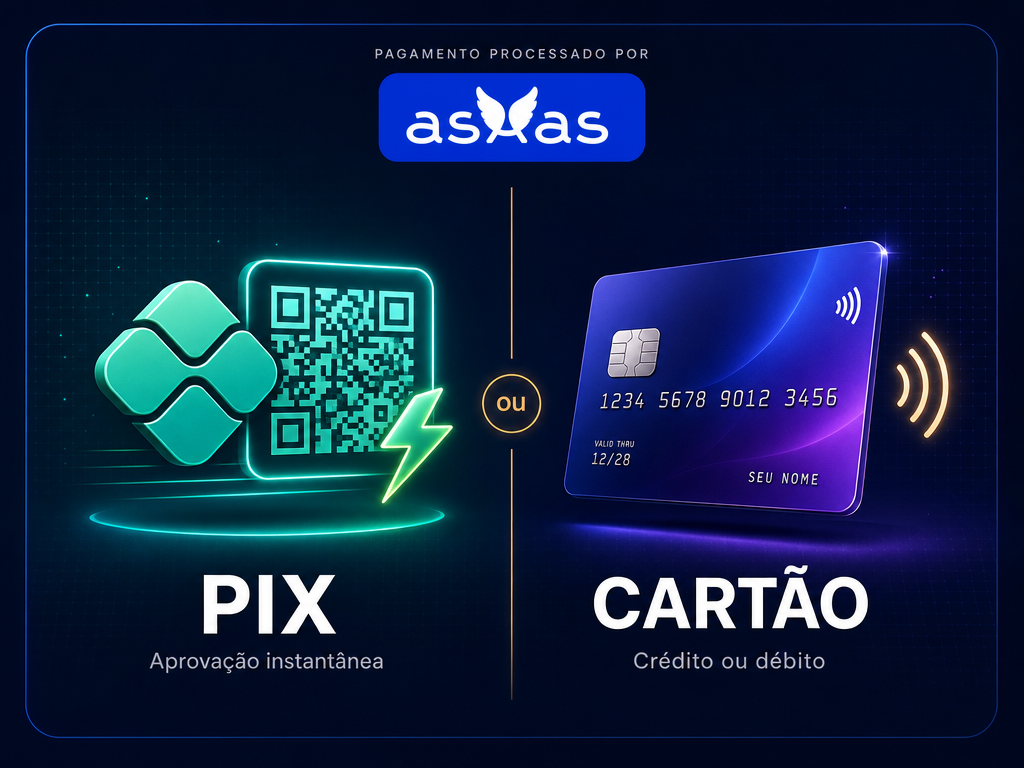
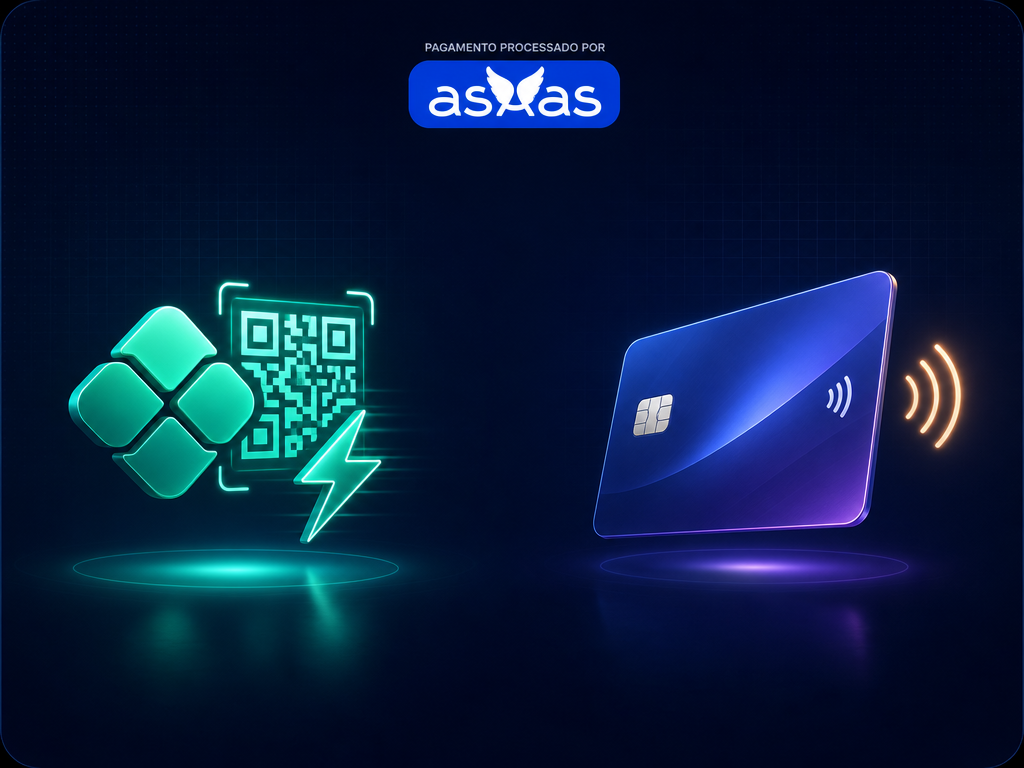
Refina UX/UI do checkout Asaas: nova arte sem texto queimado, divisor dinâmico, selos de segurança antecipados e corrige spinner enganoso do stepper

diff --git a/src/components/billing/asaas-checkout.tsx b/src/components/billing/asaas-checkout.tsx
@@ -323,6 +323,26 @@ export function AsaasCheckout({ onApproved, onStageChange }: AsaasCheckoutProps)
             </p>
           </div>
 
+          <ul
+            className="grid grid-cols-2 gap-2"
+            aria-label="Selos de segurança do pagamento"
+          >
+            <li className="flex items-center gap-2 rounded-xl border border-white/15 bg-white/5 px-3 py-2.5">
+              <Lock className="h-4 w-4 shrink-0 text-sky-300" aria-hidden />
+              <span className="min-w-0">
+                <span className="block text-[11px] font-bold text-white">SSL / HTTPS</span>
+                <span className="block text-[10px] text-slate-300">Conexão criptografada</span>
+              </span>
+            </li>
+            <li className="flex items-center gap-2 rounded-xl border border-white/15 bg-white/5 px-3 py-2.5">
+              <ShieldCheck className="h-4 w-4 shrink-0 text-emerald-300" aria-hidden />
+              <span className="min-w-0">
+                <span className="block text-[11px] font-bold text-white">PCI DSS</span>
+                <span className="block text-[10px] text-slate-300">Cartão na Asaas</span>
+              </span>
+            </li>
+          </ul>
+
           <div role="group" aria-labelledby={methodsLegendId}>
             <p
               id={methodsLegendId}
@@ -345,6 +365,38 @@ export function AsaasCheckout({ onApproved, onStageChange }: AsaasCheckoutProps)
                 sizes="(max-width: 1024px) 100vw, 520px"
                 priority
               />
+
+              <div
+                className="pointer-events-none absolute left-1/2 top-[46%] z-10 flex h-9 w-9 -translate-x-1/2 -translate-y-1/2 items-center justify-center rounded-full border transition-colors sm:h-10 sm:w-10"
+                aria-hidden
+                style={{
+                  borderColor:
+                    selectedMethod === 'pix'
+                      ? 'rgba(45,212,191,0.7)'
+                      : selectedMethod === 'card'
+                        ? 'rgba(167,139,250,0.7)'
+                        : 'rgba(252,211,77,0.5)',
+                  backgroundColor:
+                    selectedMethod === 'pix'
+                      ? 'rgba(20,184,166,0.25)'
+                      : selectedMethod === 'card'
+                        ? 'rgba(139,92,246,0.25)'
+                        : 'rgba(2,6,23,0.75)'
+                }}
+              >
+                {selectedMethod ? (
+                  <Check
+                    className={cn(
+                      'h-4 w-4',
+                      selectedMethod === 'pix' ? 'text-teal-200' : 'text-violet-200'
+                    )}
+                  />
+                ) : (
+                  <span className="text-[10px] font-bold uppercase tracking-wide text-amber-200">
+                    ou
+                  </span>
+                )}
+              </div>
 
               <div className="absolute inset-0 grid grid-cols-2">
                 <button
@@ -369,11 +421,11 @@ export function AsaasCheckout({ onApproved, onStageChange }: AsaasCheckoutProps)
                       </span>
                     ) : (
                       <>
-                        <span className="block text-xs font-black uppercase tracking-wide text-teal-200 sm:text-sm">
-                          {selectedMethod === 'pix' ? 'Pix selecionado' : 'Pagar com Pix'}
+                        <span className="block text-base font-black uppercase tracking-wide text-teal-200 sm:text-lg">
+                          PIX
                         </span>
-                        <span className="mt-0.5 block text-[10px] text-slate-200 sm:text-[11px]">
-                          Toque nesta metade
+                        <span className="mt-0.5 block text-[10px] font-semibold text-slate-100 sm:text-[11px]">
+                          {selectedMethod === 'pix' ? 'Selecionado ✓' : 'Aprovação instantânea'}
                         </span>
                       </>
                     )}
@@ -402,11 +454,11 @@ export function AsaasCheckout({ onApproved, onStageChange }: AsaasCheckoutProps)
                       </span>
                     ) : (
                       <>
-                        <span className="block text-xs font-black uppercase tracking-wide text-violet-200 sm:text-sm">
-                          {selectedMethod === 'card' ? 'Cartão selecionado' : 'Pagar com cartão'}
+                        <span className="block text-base font-black uppercase tracking-wide text-violet-200 sm:text-lg">
+                          CARTÃO
                         </span>
-                        <span className="mt-0.5 block text-[10px] text-slate-200 sm:text-[11px]">
-                          Crédito ou débito
+                        <span className="mt-0.5 block text-[10px] font-semibold text-slate-100 sm:text-[11px]">
+                          {selectedMethod === 'card' ? 'Selecionado ✓' : 'Crédito ou débito'}
                         </span>
                       </>
                     )}
@@ -441,23 +493,6 @@ export function AsaasCheckout({ onApproved, onStageChange }: AsaasCheckoutProps)
               </p>
             </div>
           </div>
-
-          <ul className="grid grid-cols-2 gap-2" aria-label="Selos de segurança do pagamento">
-            <li className="flex items-center gap-2 rounded-xl border border-white/15 bg-white/5 px-3 py-2.5">
-              <Lock className="h-4 w-4 shrink-0 text-sky-300" aria-hidden />
-              <span className="min-w-0">
-                <span className="block text-[11px] font-bold text-white">SSL / HTTPS</span>
-                <span className="block text-[10px] text-slate-300">Conexão criptografada</span>
-              </span>
-            </li>
-            <li className="flex items-center gap-2 rounded-xl border border-white/15 bg-white/5 px-3 py-2.5">
-              <ShieldCheck className="h-4 w-4 shrink-0 text-emerald-300" aria-hidden />
-              <span className="min-w-0">
-                <span className="block text-[11px] font-bold text-white">PCI DSS</span>
-                <span className="block text-[10px] text-slate-300">Cartão na Asaas</span>
-              </span>
-            </li>
-          </ul>
         </div>
       ) : null}
 

diff --git a/src/app/(app)/checkout/page.tsx b/src/app/(app)/checkout/page.tsx
@@ -33,12 +33,14 @@ function StepRow({
   index,
   label,
   detail,
-  status
+  status,
+  spinning = false
 }: {
   index: number;
   label: string;
   detail: string;
   status: StepStatus;
+  spinning?: boolean;
 }) {
   return (
     <li
@@ -66,7 +68,7 @@ function StepRow({
           <CheckCircle2 className="h-4 w-4" />
         ) : status === 'error' ? (
           <XCircle className="h-4 w-4" />
-        ) : status === 'active' ? (
+        ) : status === 'active' && spinning ? (
           <Loader2 className="h-4 w-4 animate-spin" />
         ) : (
           index
@@ -187,7 +189,9 @@ function CheckoutContent() {
             : checkoutStage === 'card'
               ? 'Cartão via Asaas'
               : 'Toque em Pix ou Cartão na arte',
-        status: pick
+        status: pick,
+        // Aguardando o clique do usuário não é uma requisição em andamento.
+        spinning: false
       },
       {
         label: 'Checkout seguro',
@@ -197,12 +201,16 @@ function CheckoutContent() {
             : checkoutStage === 'card'
               ? 'Página segura da Asaas (crédito ou débito).'
               : 'Informe o CPF e escolha o método na arte.',
-        status: pay
+        status: pay,
+        // Só gira enquanto o Pix está sendo confirmado em segundo plano.
+        spinning: pay === 'active' && checkoutStage === 'pix'
       },
       {
         label: 'Confirmação',
         detail: 'Acompanhamos a aprovação em tempo real.',
-        status: confirm
+        status: confirm,
+        // Polling real de confirmação em segundo plano.
+        spinning: confirm === 'active'
       },
       {
         label: phase === 'failure' ? 'Não concluído' : 'Premium liberado',
